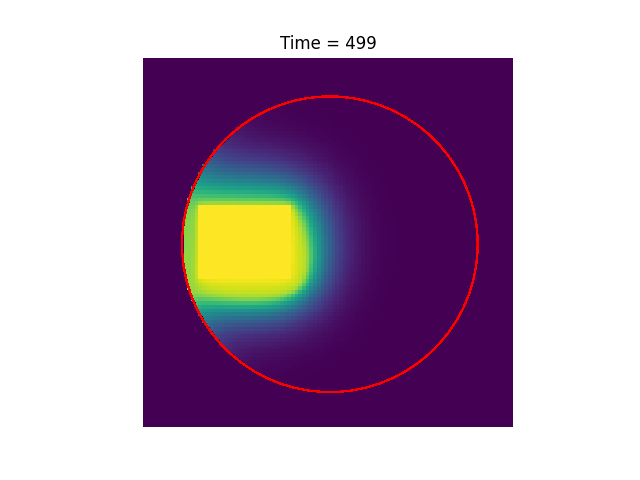
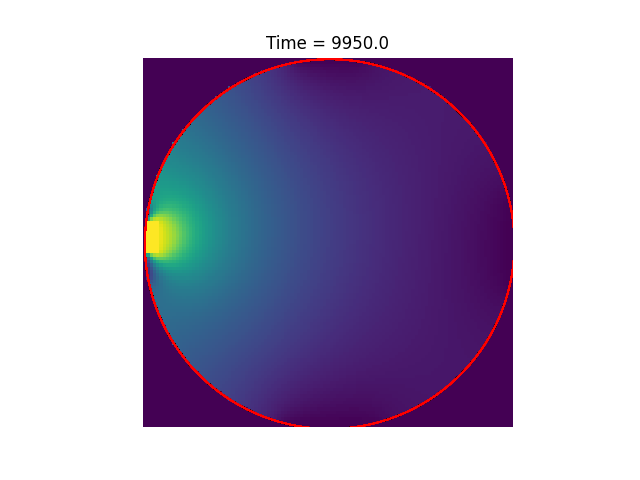
working

diff --git a/porosity.py b/porosity.py
@@ -68,6 +68,17 @@ def Fw(S_past):
     ## COLOCAR AQUI O CODIGO PARA CALCULAR FW
     return old_F.copy()
 
+
+def vel_Field(S_past,k):
+    muw = 1.0 # densidade da agua em g/ml
+    vx = np.zeros_like(S_past)
+    vy = np.zeros_like(S_past)
+    for i in range(1, S_past.shape[0]-1):
+        for j in range(1, S_past.shape[1]-1):
+            vx[i,j] = (-k/muw)*(S_past[i+1, j] - S_past[i-1, j]) / (2*dx)
+            vy[i,j] =  (-k/muw)*(S_past[i, j+1] - S_past[i, j-1]) / (2*dy)
+    return vx.copy(),vy.copy()
+
 def up_S(S_past, k, vx, vy, dt, dx, dy, r):
     old_F = Fw(S_past)
     S_new = np.zeros_like(S_past)
@@ -78,29 +89,43 @@ def up_S(S_past, k, vx, vy, dt, dx, dy, r):
                 d2S_dy2 = (S_past[i, j+1] - 2*S_past[i, j] + S_past[i, j-1]) / (dy**2)
                 dF_dx = (old_F[i+1, j] - old_F[i-1, j]) / (2*dx)
                 dF_dy = (old_F[i, j+1] - old_F[i, j-1]) / (2*dy)
-
+                
                 if valid_vortex(S_past, dx, dy, i, j, r):
-                    S_new[i, j] = k * (d2S_dx2 + d2S_dy2) - vx * dF_dx - vy * dF_dy
+                    
+                    S_new[i, j] = k * (d2S_dx2 + d2S_dy2) - vx[i,j] * dF_dx - vy[i,j] * dF_dy
                     S_new[i, j] = S_past[i, j] + S_new[i, j] * dt
     return S_new
 
-max_T, max_X, max_Y, r = 500, 100, 100, 40
-dt, dx, dy = 1, 1, 1
-vx, vy = 0.012, 0.012
-k = 0.1
+max_T, max_X, max_Y, r = 10000, 113, 113, 56.5
+dt, dx, dy = 0.5, 1, 1
+# vx, vy = 0.012, 0.012
+k = 0.3302369
 
 S = np.zeros((int(max_T/dt), int(max_X/dx), int(max_Y/dy)))
-S[0, 40:60, 15:40] = 1
+# S[0, 40:60, 15:40] = 1
+# S[0, 56, 1] = 1
+S[0,50:60,1:5] = 1
+# S[0,50:60,1:5] = 0.1
+
+q = 2.0979020979e-6
+A = 0.00049087385
+valV = (q*k)/A
 
 for t in range(1, S.shape[0]):
+    vx,vy = vel_Field(S[t-1],k)
+    vx[50:60,1:5] = valV
+    vy[50:60,107:112] = valV
     S[t-1] = set_border(S[t-1], dx, dy, r)
     S[t] = up_S(S[t-1], k, vx, vy, dt, dx, dy, r)
     S[t-1] = clear_outside(S[t-1], dx, dy, r)
-    S[t, 40:60, 15:40] = 1
+    # S[t, 40:60, 15:40] = 1
+    # S[t, 56, 1] = 1
+    S[t,50:60,1:5] = 1
+    
 
 import imageio
 images = []
-for i in range(S.shape[0]):
+for i in range(0,S.shape[0],100):
     plt.imshow(S[i], cmap='viridis')
     x_center, y_center = S.shape[1]/2, S.shape[2]/2
     circle = plt.Circle((x_center, y_center), r, color='r', fill=False)
